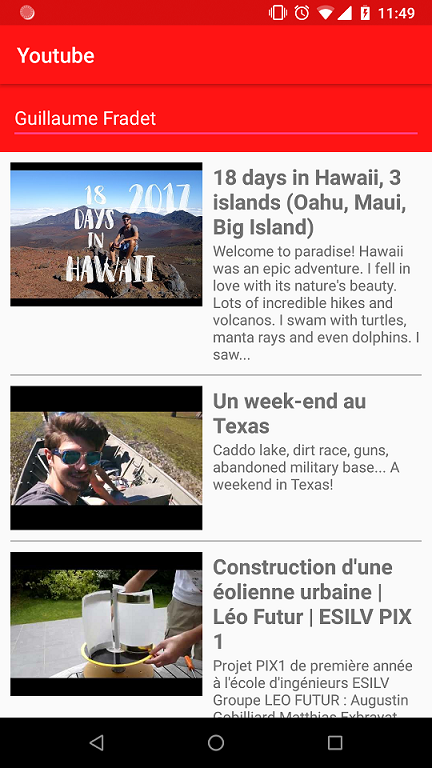
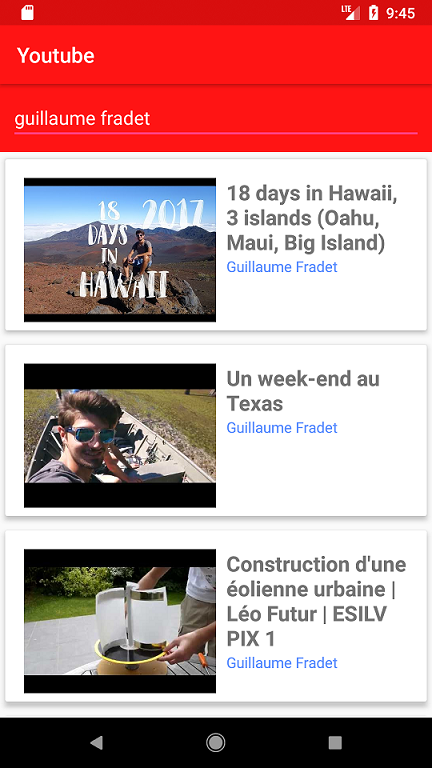
(layout): modified layout with cardview

diff --git a/app/src/main/java/com/example/guill/youtube/MainActivity.java b/app/src/main/java/com/example/guill/youtube/MainActivity.java
@@ -39,6 +39,7 @@ public class MainActivity extends AppCompatActivity implements View.OnKeyListene
         videos = new ArrayList<Item>();
         initializeRecyclerView();
         initializeAdapter(videos);
+        youtubeAPICall();
 
         recyclerView.addOnItemTouchListener(
                 new RecyclerItemClickListener(this, recyclerView, new RecyclerItemClickListener.OnItemClickListener() {
@@ -61,6 +62,31 @@ public class MainActivity extends AppCompatActivity implements View.OnKeyListene
         recyclerView.setAdapter(adapter);
     }
 
+    private void youtubeAPICall() {
+        EditText searchBox = findViewById(R.id.searchBox);
+        Retrofit retrofit = new Retrofit.Builder()
+                .baseUrl("https://www.googleapis.com/youtube/v3/")
+                .addConverterFactory(GsonConverterFactory.create())
+                .build();
+
+        YoutubeAPI youtubeAPI = retrofit.create(YoutubeAPI.class);
+        Call<SOAnswersResponse> call = youtubeAPI.getAnswers(key, part, searchBox.getText().toString(), "video", 10);
+        call.enqueue(new Callback<SOAnswersResponse>() {
+            @Override
+            public void onResponse(Call<SOAnswersResponse> call, Response<SOAnswersResponse> response) {
+                videos = response.body().getItems();
+                adapter.getVideos().clear();
+                adapter.getVideos().addAll(videos);
+                adapter.notifyDataSetChanged();
+            }
+
+            @Override
+            public void onFailure(Call<SOAnswersResponse> call, Throwable t) {
+
+            }
+        });
+    }
+
     @Override
     public boolean onKey(View view, int keyCode, KeyEvent event) {
         if (keyCode == EditorInfo.IME_ACTION_SEARCH ||
@@ -70,28 +96,7 @@ public class MainActivity extends AppCompatActivity implements View.OnKeyListene
 
             if (!event.isShiftPressed()) {
 
-                EditText searchBox = findViewById(R.id.searchBox);
-                Retrofit retrofit = new Retrofit.Builder()
-                        .baseUrl("https://www.googleapis.com/youtube/v3/")
-                        .addConverterFactory(GsonConverterFactory.create())
-                        .build();
-
-                YoutubeAPI youtubeAPI = retrofit.create(YoutubeAPI.class);
-                Call<SOAnswersResponse> call = youtubeAPI.getAnswers(key, part, searchBox.getText().toString(), "video", 6);
-                call.enqueue(new Callback<SOAnswersResponse>() {
-                    @Override
-                    public void onResponse(Call<SOAnswersResponse> call, Response<SOAnswersResponse> response) {
-                        videos = response.body().getItems();
-                        adapter.getVideos().clear();
-                        adapter.getVideos().addAll(videos);
-                        adapter.notifyDataSetChanged();
-                    }
-
-                    @Override
-                    public void onFailure(Call<SOAnswersResponse> call, Throwable t) {
-
-                    }
-                });
+                youtubeAPICall();
                 return true;
             }
 

diff --git a/app/src/main/java/com/example/guill/youtube/VideoViewHolder.java b/app/src/main/java/com/example/guill/youtube/VideoViewHolder.java
@@ -7,19 +7,19 @@ import android.widget.TextView;
 
 public class VideoViewHolder extends RecyclerView.ViewHolder {
     private TextView title;
-    private TextView description;
+    private TextView channel;
     private ImageView imageView;
 
     public VideoViewHolder(View itemView) {
         super(itemView);
         title = (TextView) itemView.findViewById(R.id.title);
-        description = (TextView) itemView.findViewById(R.id.description);
+        channel = (TextView) itemView.findViewById(R.id.channel);
         imageView = (ImageView) itemView.findViewById(R.id.imageView);
     }
 
     public void bind(Item item) {
         title.setText(item.getSnippet().getTitle());
-        description.setText(item.getSnippet().getDescription());
+        channel.setText(item.getSnippet().getChannelTitle());
         new DownloadImageTask(imageView)
                 .execute(item.getSnippet().getThumbnails().getHigh().getUrl());
     }
